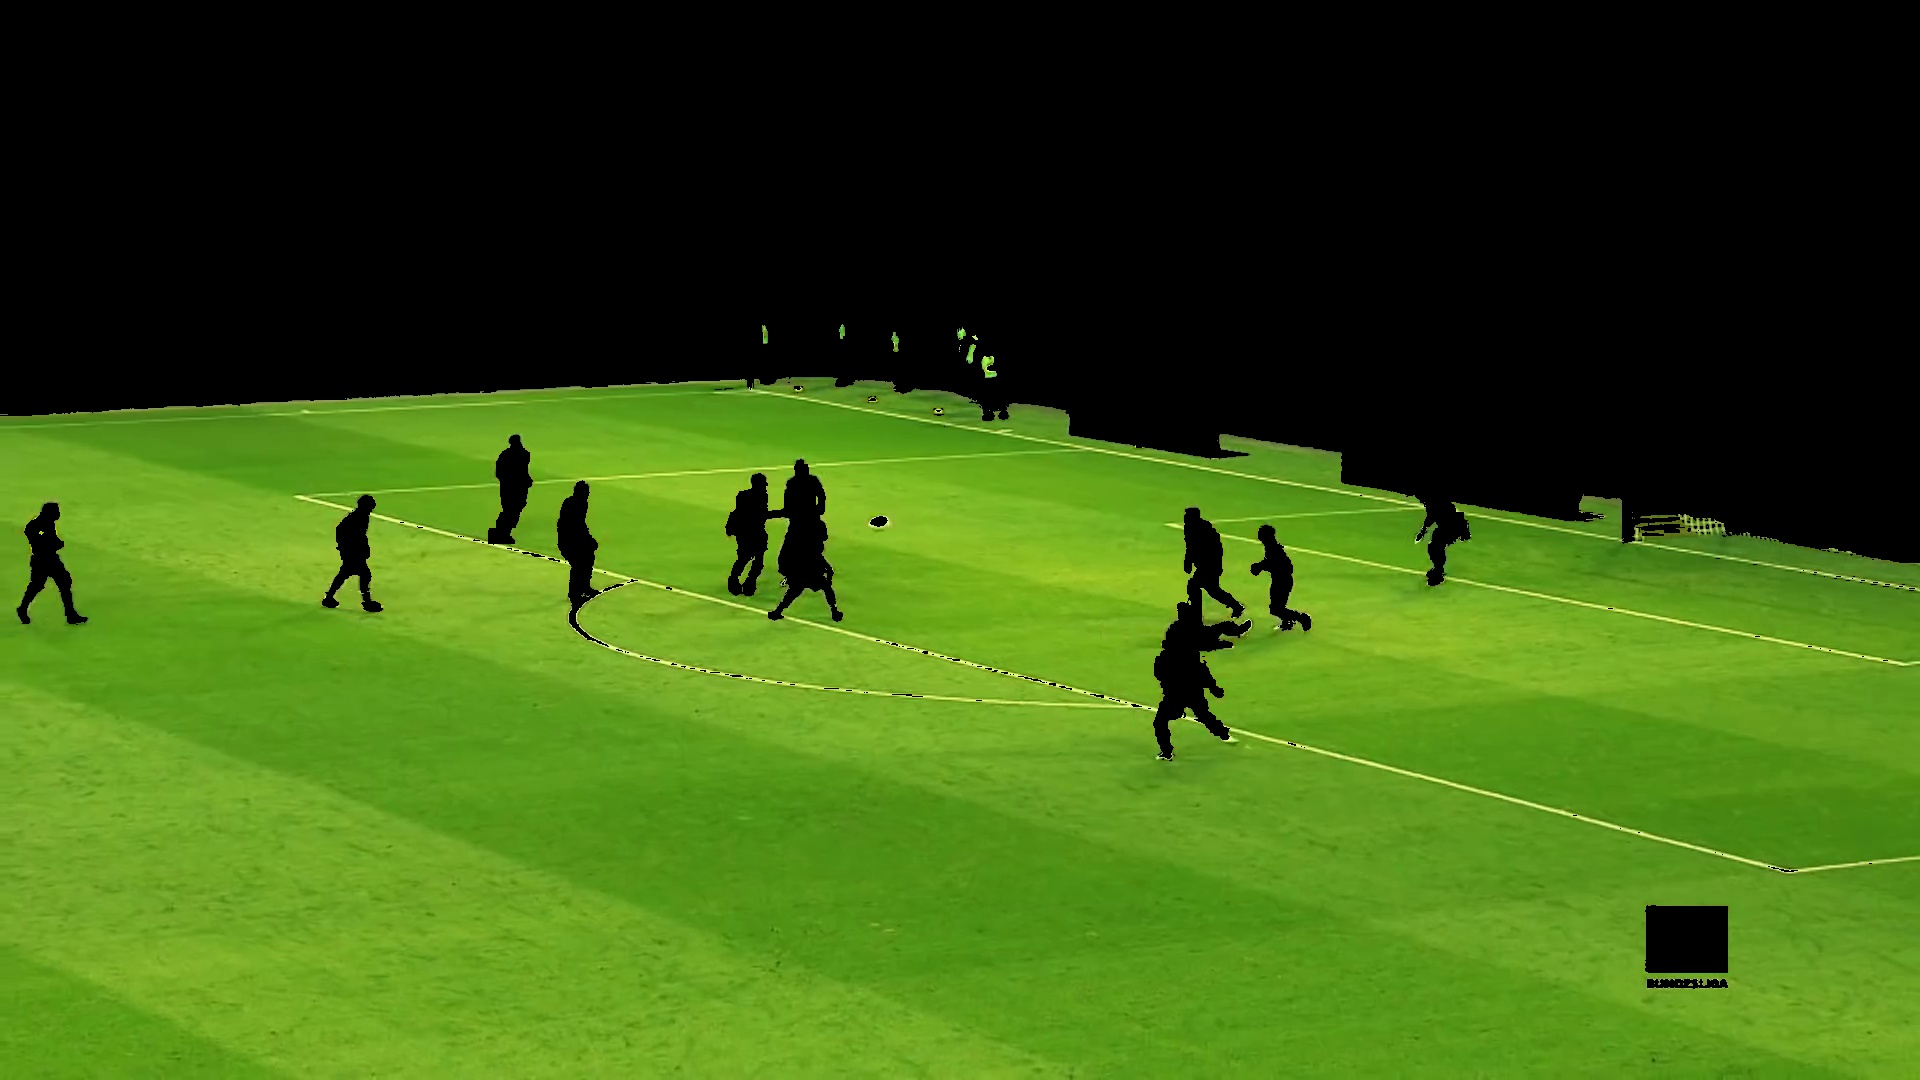
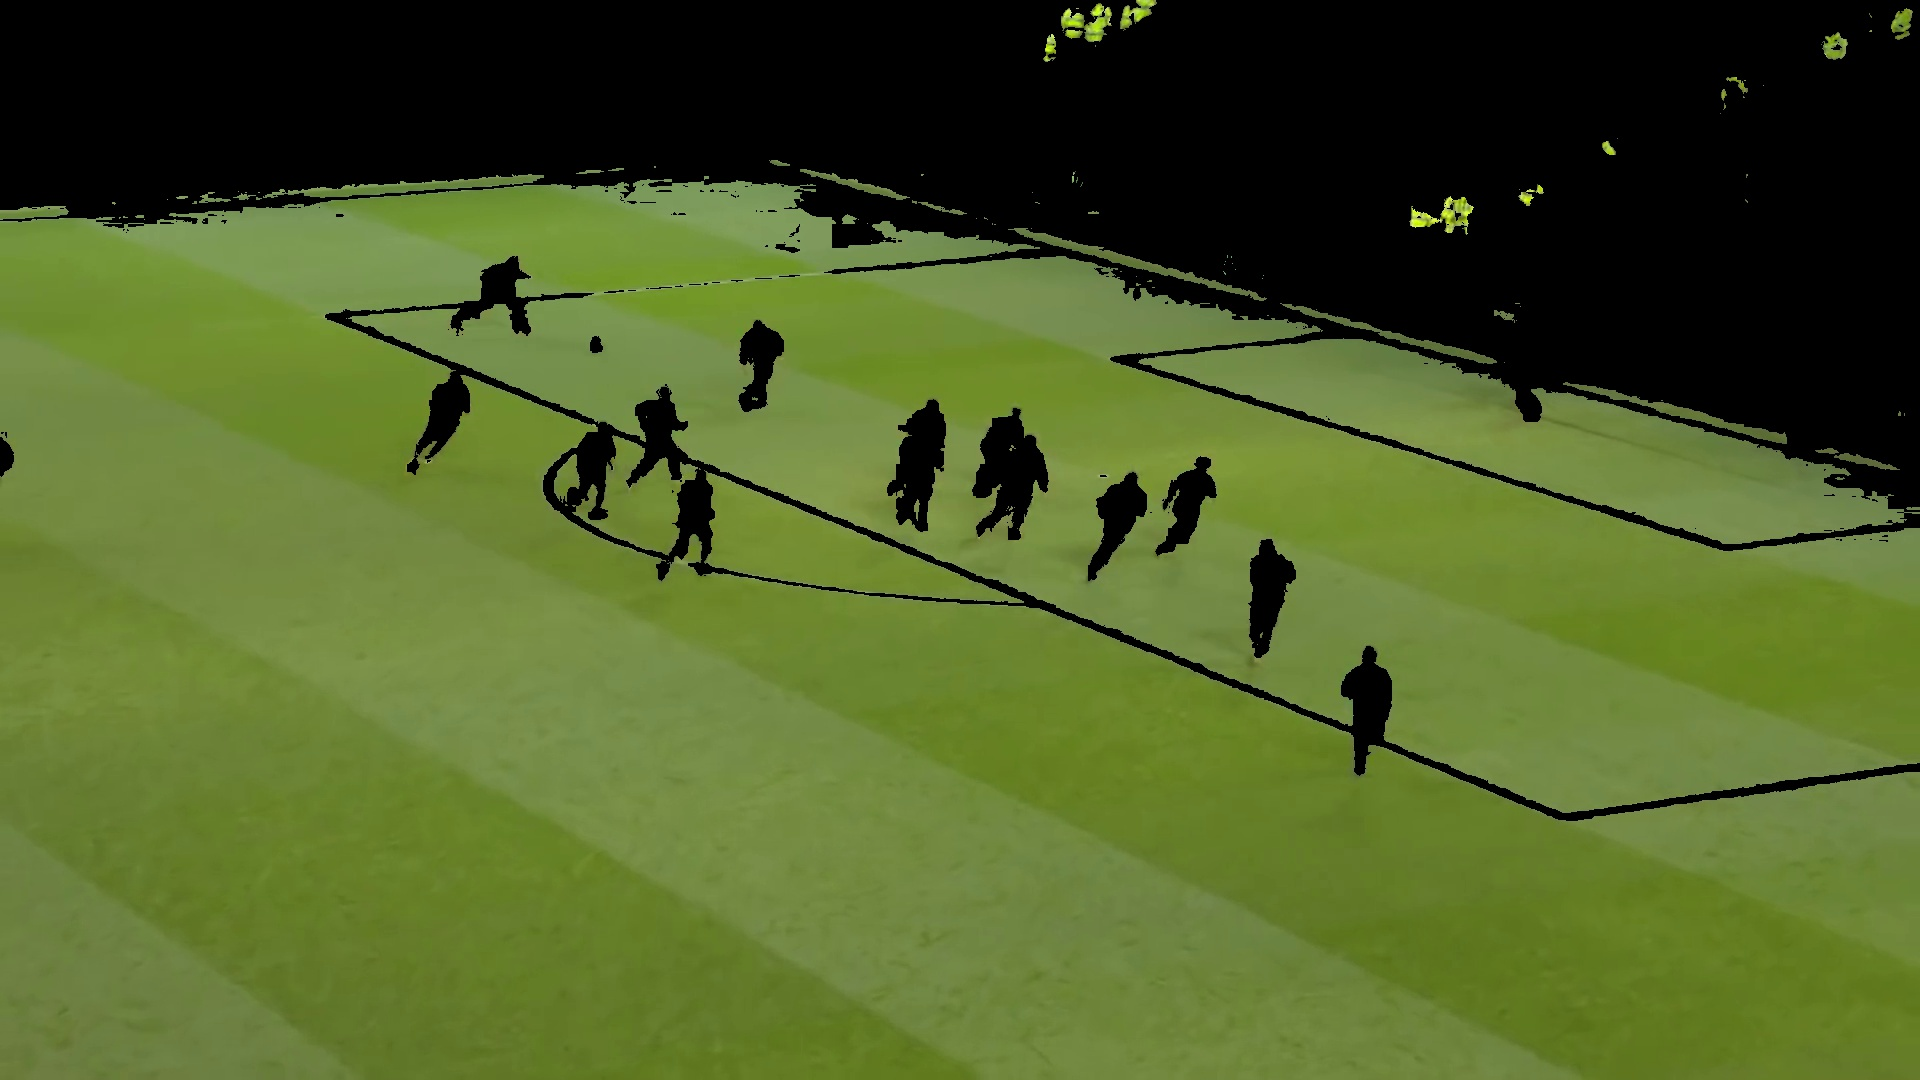
linee di fuoco

diff --git a/prova.py b/prova.py
@@ -6,10 +6,49 @@ from vanishingPoints import *
 
 vanishing_point_viz_base_path = 'vp/'
 goalDirection = 'right'
+nomeFile = '479.jpg'
 
-
-imageForVanishingPoints = cv2.imread('30.jpg')
+imageForVanishingPoints = cv2.imread(nomeFile)
+print(imageForVanishingPoints.shape[:2])
 vertical_vanishing_point = get_vertical_vanishing_point(imageForVanishingPoints, goalDirection)
 horizontal_vanishing_point = get_horizontal_vanishing_point(imageForVanishingPoints)
-cv2.imwrite(vanishing_point_viz_base_path+'30.jpg', imageForVanishingPoints)
+cv2.line(imageForVanishingPoints, (int(vertical_vanishing_point[0]) , int(vertical_vanishing_point[1])) , (int(1450),int(710)), (0,255,0) , 2) 
+cv2.imwrite(vanishing_point_viz_base_path+nomeFile, imageForVanishingPoints)
 
+def calculate_x_coordinate(van, point, targetx):
+    # Coordonate del punto di convergenza (punto di fuga)
+    x1,y1 = van[:2]
+    x2,y2 = point[:2]
+    return round(((-x1/(x2-x1))*(y2-y1))+y1)
+
+# Example usage:
+y_coordinate = calculate_x_coordinate((vertical_vanishing_point[0], vertical_vanishing_point[1]), (1450, 710), 0)
+print(y_coordinate)
+cv2.line(imageForVanishingPoints, (1450,710) , (0, y_coordinate), (0,255,255) , 2)
+cv2.imwrite(vanishing_point_viz_base_path+nomeFile, imageForVanishingPoints)
+
+
+
+'''
+def rectify_vertical_lines(image, vertical_lines):
+    # Estrai i punti delle linee verticali
+    src_points = np.array(vertical_lines, dtype=np.float32)
+    
+    # Definisci i punti di destinazione rettificati
+    dst_points = np.array([[0, 0], [image.shape[1], 0], [0, image.shape[0]], [image.shape[1], image.shape[0]]], dtype=np.float32)
+
+    # Calcola la matrice di omografia
+    H, _ = cv2.findHomography(src_points, dst_points)
+
+    # Applica la trasformazione di omografia
+    rectified_image = cv2.warpPerspective(image, H, (image.shape[1], image.shape[0]))
+
+    return rectified_image
+
+# Esempio di utilizzo
+# Leggi l'immagine e individua le linee verticali
+vertical_lines = [[x1, y1], [x2, y2], ...]  # Lista dei punti delle linee verticali
+
+# Rettifica le linee verticali
+rectified_image = rectify_vertical_lines(imageForVanishingPoints, vertical_lines)
+'''

diff --git a/main.py b/main.py
@@ -18,7 +18,7 @@ for fileName in tempFileNames:
     fileNames.append(base_path+str(fileName))
 '''
 #Output image paths
-vanishing_point_viz_base_path = base_path+'vp/'
+vanishing_point_viz_base_path = 'vp/'
 
 #pose_estimation_viz_base_path = base_path+'pe/'
 #team_classification_viz_base_path = base_path+'tc/'

diff --git a/vanishingPoints.py b/vanishingPoints.py
@@ -38,7 +38,7 @@ def get_vertical_lines(image , side):
                 BlueRedMask -= 10
 
     
-    
+
     linesFound = False
     
     if side == 'left':